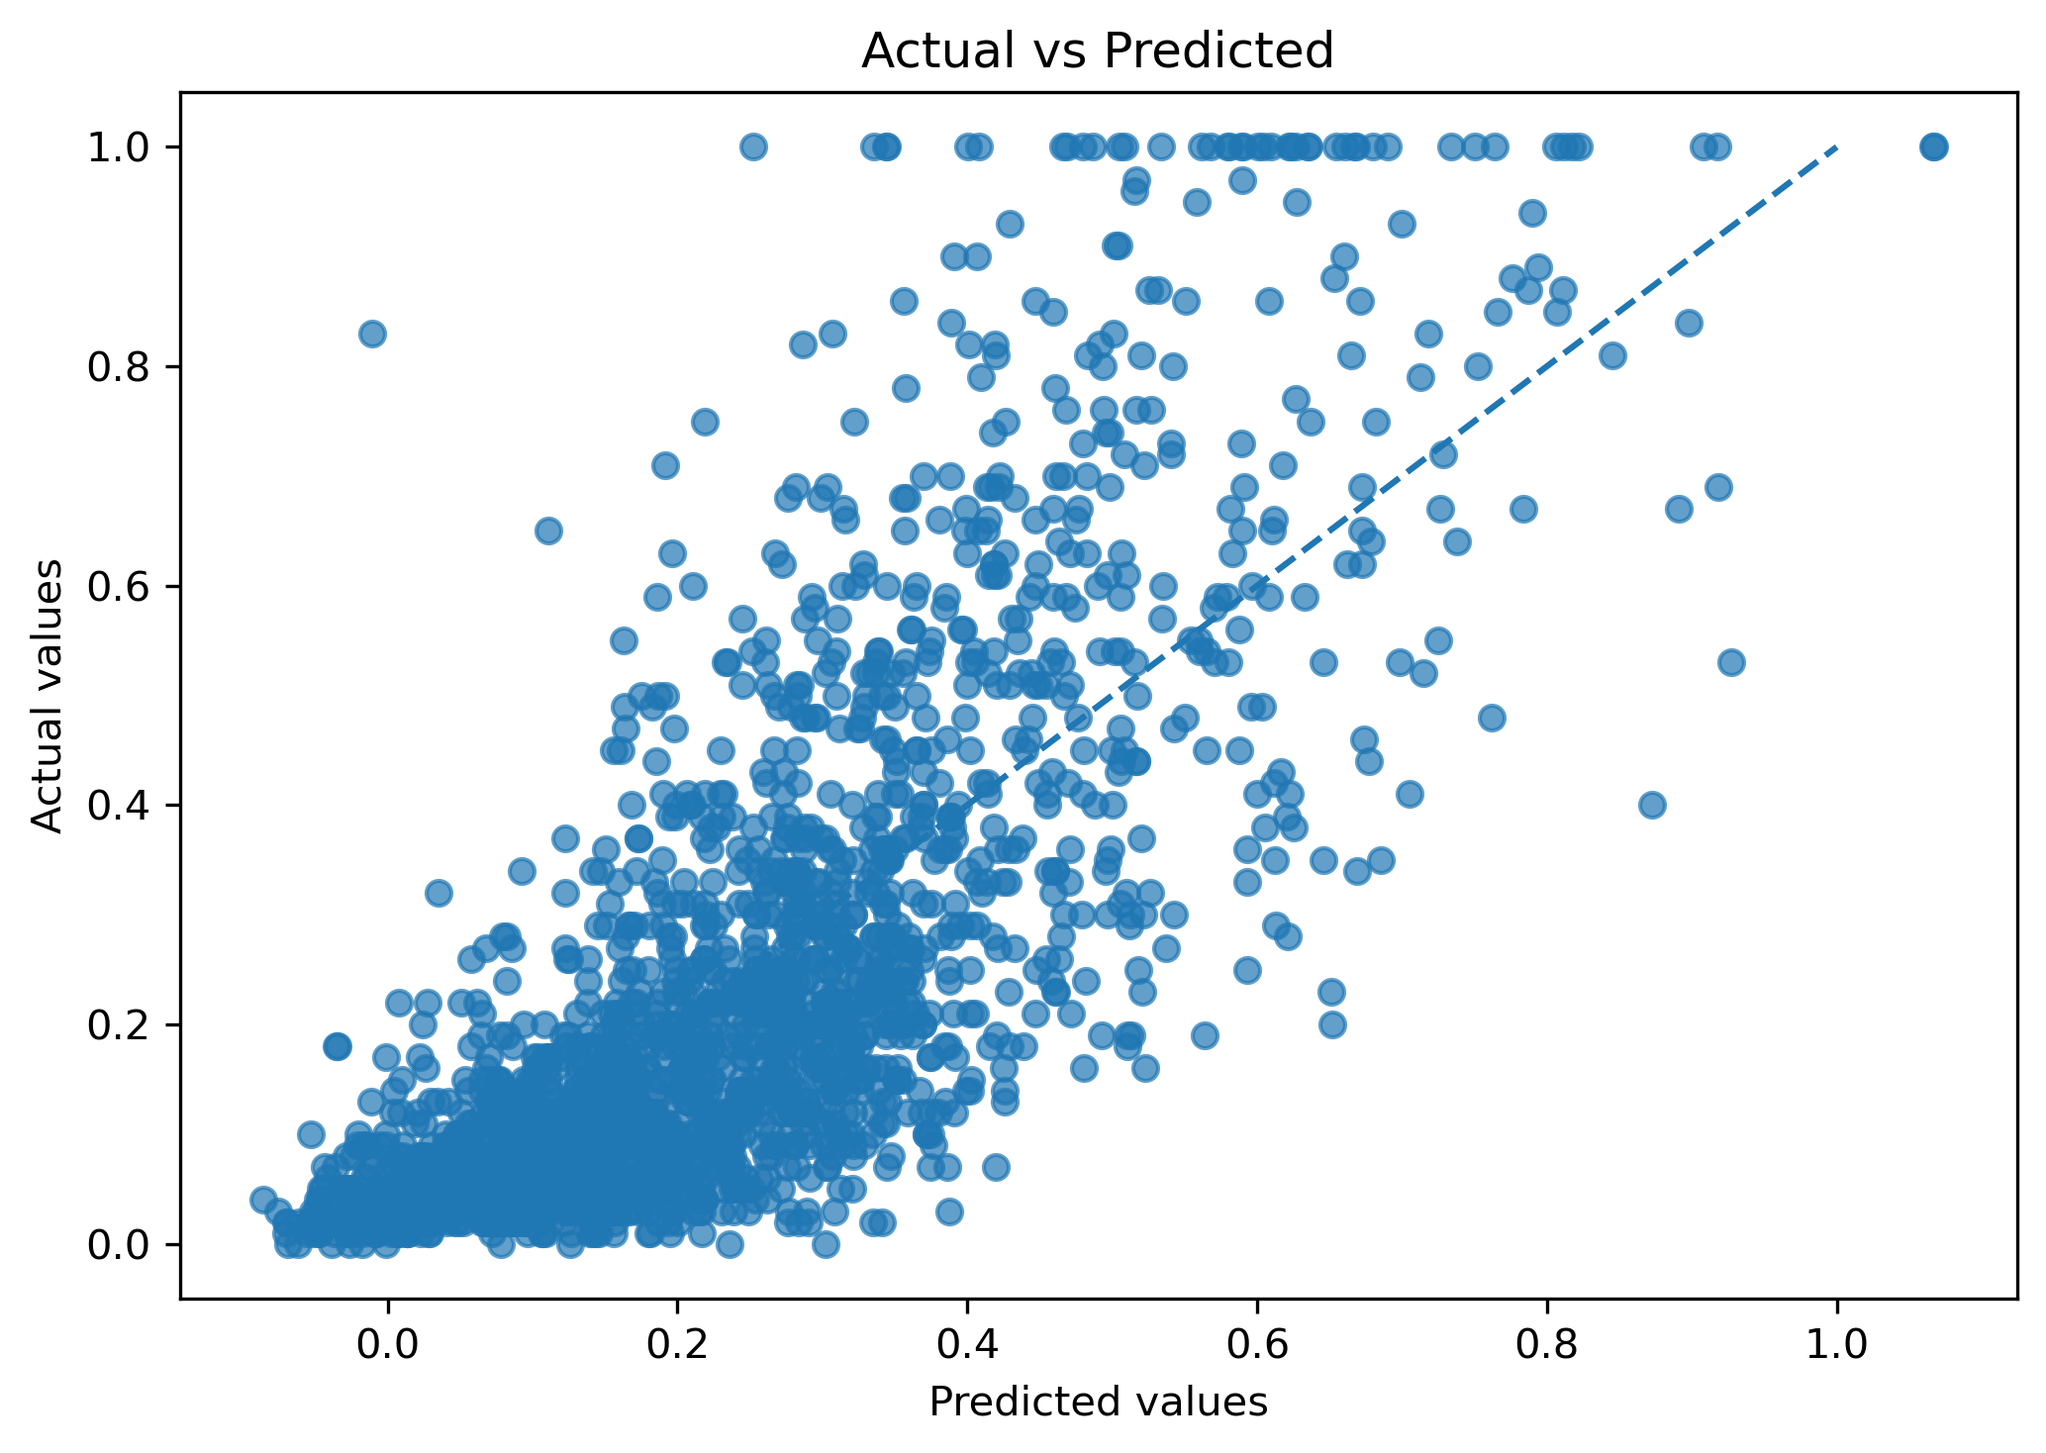
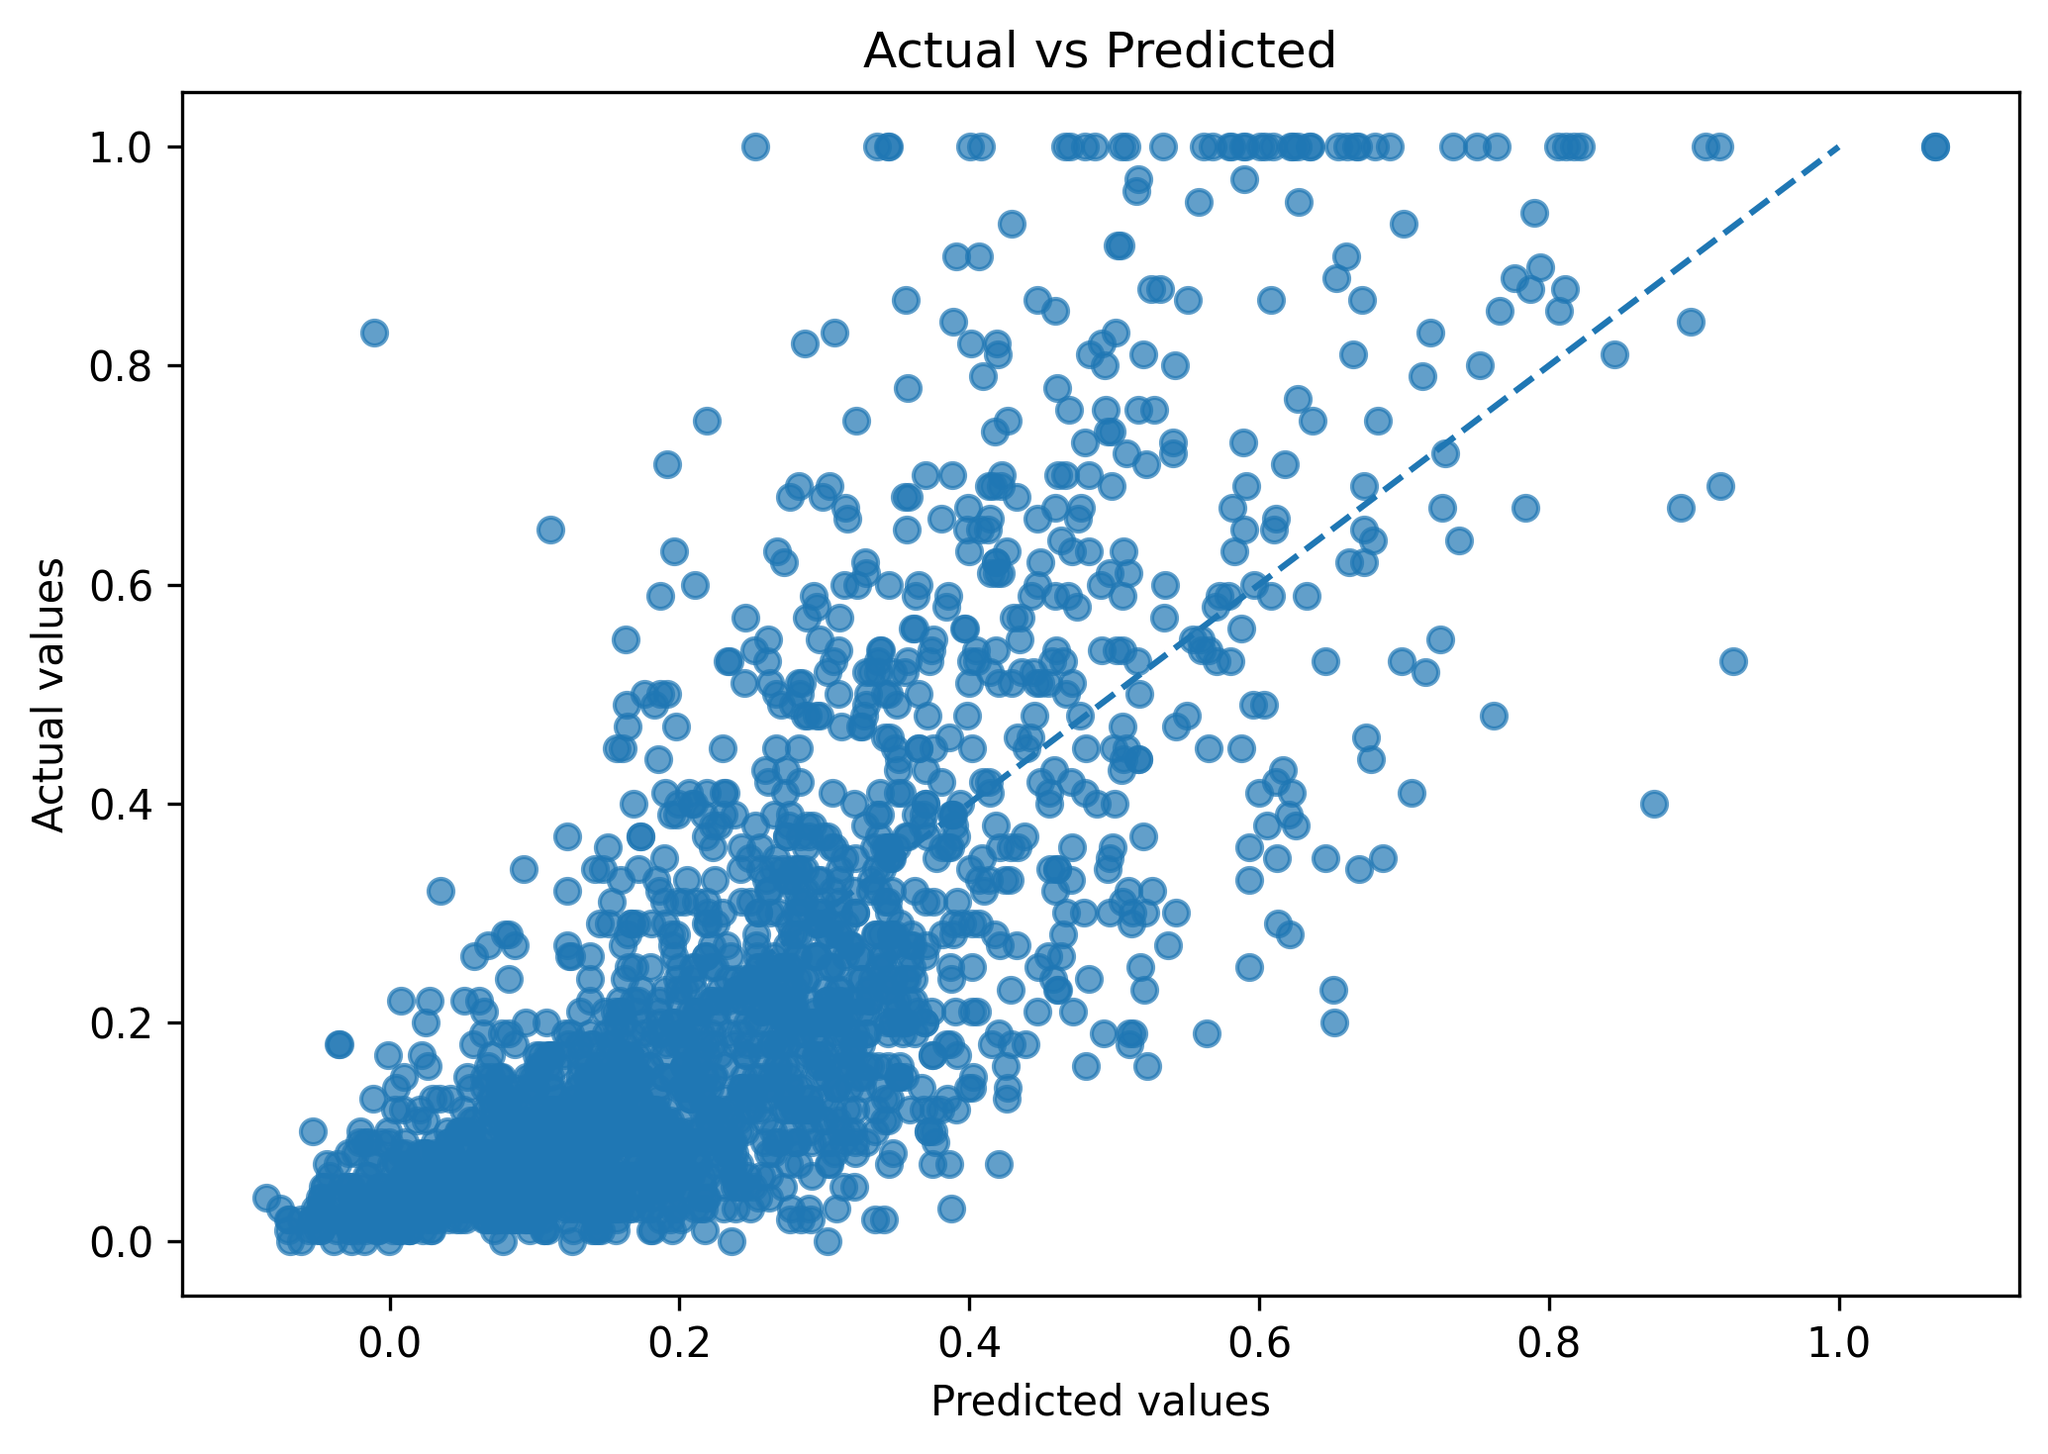
Section B revisions: address sign reversal, add F-test, comment on diagnostics, translate units
Implements the seven outstanding review items for Section B:
- Restructure report/02_section_B.md with Task 3 and Task 4 headings;
  delete the duplicate at outputs/tables/section_b_task3_interpretation.md.
- Explain the PctPopUnderPov sign reversal: link the +0.522 univariate
  correlation to the -0.092 partial coefficient and attribute the flip to
  multicollinearity within the disadvantage block.
- Add a third joint F-test on {PctNotHSGrad, PctUnemployed}: F = 1.04,
  p = 0.355, df = (2, 1986). Fails to reject H0, so the data is consistent
  with dropping both in Task 5 model selection.
- Acknowledge out-of-range fitted values (107 below 0; 8 above 1) as a
  known OLS limitation on a [0, 1]-bounded target; defer remedies to
  Section C.
- Comment on the visible heteroscedasticity in residuals_vs_fitted.png
  and flag that all SEs/p-values/CIs are based on the non-robust
  covariance estimator; HC SEs to be revisited in Section C.
- Comment on residual non-normality (Jarque-Bera, Q-Q plot) and lean on
  the CLT given N = 1994 to defend the inference.
- Translate "one-unit increase in normalized X" into concrete language:
  movement from the dataset minimum to the dataset maximum across the
  full empirical range.

Outputs (joint_f_tests.csv, task4_inference_summary.txt) regenerated;
plots rerendered as a side effect of re-running the pipeline.

diff --git a/Section_B_Estimation_and_Inference/scripts/04_inference.py b/Section_B_Estimation_and_Inference/scripts/04_inference.py
@@ -260,6 +260,15 @@ def build_joint_f_tests_table(model) -> pd.DataFrame:
             "PctVacantBoarded = 0, PopDens = 0, population = 0",
             "H0: the housing/urban-scale coefficients are jointly equal to zero."
         ),
+        # Joint test on the two individually non-significant predictors. This is
+        # the test that informs Task 5 model selection: if we cannot reject H0,
+        # the data is consistent with dropping both PctNotHSGrad and
+        # PctUnemployed from the specification.
+        (
+            "non_significant_pair",
+            "PctNotHSGrad = 0, PctUnemployed = 0",
+            "H0: the two individually non-significant predictors are jointly zero."
+        ),
     ]
 
     rows = [

diff --git a/Section_B_Estimation_and_Inference/report/02_section_B.md b/Section_B_Estimation_and_Inference/report/02_section_B.md
@@ -1,35 +1,191 @@
-# Section B — Task 3: Plain-English Interpretation of the OLS Results
+# Section B — Estimation and Inference (Tasks 3 and 4)
 
-This section interprets the baseline OLS regression for `ViolentCrimesPerPop` using the shared dataset `data/communities_baseline_model.csv`. Because the variables in this project are normalized to the `[0, 1]` scale, each coefficient should be interpreted as the change in predicted `ViolentCrimesPerPop` associated with a one-unit increase in the normalized predictor, holding all other variables constant.
+This section reports the OLS estimation of the baseline model defined in
+Section A and the associated hypothesis tests and confidence intervals.
+The input is the shared baseline dataset
+`data/communities_baseline_model.csv` (1,994 communities, 7 predictors +
+target).
 
-## Coefficient interpretations
+A note on units used throughout. The UCI dataset is normalized so each
+predictor lies in `[0, 1]`, and every predictor has at least one
+community at 0.00 and at least one at 1.00 in our sample. So a
+"one-unit increase in a normalized predictor" corresponds to **moving
+from the community with the lowest observed value to the community with
+the highest observed value** in the dataset. This is a very large
+movement — the *full empirical range* — so coefficients in the table
+below are large changes in predicted `ViolentCrimesPerPop`, not changes
+per percentage point.
 
-- **Intercept (`const = 0.6752`)**  
-  When all predictors are equal to 0, the model predicts `ViolentCrimesPerPop = 0.6752`. This serves mainly as a baseline reference point rather than the most substantively important result.
+## Task 3 — Estimation and Coefficient Interpretation
 
-- **`PctPopUnderPov` (`coef = -0.0918`, `p = 0.0010`)**  
-  Holding the other predictors fixed, a one-unit increase in the normalized poverty measure is associated with a **0.0918 decrease** in predicted violent crime. This coefficient is statistically significant at the 5% level. However, this negative sign should be interpreted cautiously because the disadvantage-related variables are highly correlated, so multicollinearity may be affecting the sign and size of this estimate.
+We fit the baseline OLS model with an intercept using `statsmodels`.
+The results are saved to
+`outputs/tables/coefficients.csv`,
+`outputs/tables/model_fit_summary.csv`, and
+`outputs/tables/ols_summary.txt`. Overall fit: **R² = 0.587**,
+**Adj R² = 0.585**, **F(7, 1986) = 402.6**, **N = 1,994**.
 
-- **`PctNotHSGrad` (`coef = 0.0041`, `p = 0.8789`)**  
-  Holding the other predictors fixed, a one-unit increase in the normalized share of people without a high-school diploma is associated with only a **0.0041 increase** in predicted violent crime. This effect is very small and not statistically significant, so the model does not provide evidence of an independent effect for this variable once the other regressors are included.
+### Coefficient interpretations
 
-- **`PctUnemployed` (`coef = 0.0383`, `p = 0.2168`)**  
-  Holding the other predictors fixed, a one-unit increase in the normalized unemployment measure is associated with a **0.0383 increase** in predicted violent crime. The coefficient is positive, but it is not statistically significant at the 5% level, so it should not be treated as strong evidence of an independent relationship in this model.
+- **Intercept (`const = 0.6752`).**
+  Mathematically, this is the predicted `ViolentCrimesPerPop` when every
+  predictor equals 0. In this data that corresponds to a community at
+  the dataset minimum on *all seven* predictors simultaneously —
+  including `PctKids2Par = 0` (no kids in two-parent households), which
+  is an unrealistic combination. The intercept is therefore not a
+  meaningful "baseline community"; it is a regression anchor and should
+  not be over-interpreted.
 
-- **`PctKids2Par` (`coef = -0.7674`, `p < 0.001`)**  
-  Holding the other predictors fixed, a one-unit increase in the normalized share of kids living in two-parent households is associated with a **0.7674 decrease** in predicted violent crime. This is the largest coefficient in absolute value and is highly statistically significant, suggesting a strong negative association with violent crime in the fitted model.
+- **`PctPopUnderPov` (`coef = -0.0918`, `p = 0.0010`).**
+  In the univariate analysis from Section A, `PctPopUnderPov` had a
+  positive correlation with violent crime (+0.522), suggesting more
+  poverty is associated with more crime — the expected direction.
+  However, in the multivariate model the partial coefficient is **−0.092**
+  (statistically significant at the 1% level), indicating the opposite
+  direction once other variables are controlled for. This is a textbook
+  multicollinearity symptom. Within the disadvantage block
+  (`PctPopUnderPov`, `PctNotHSGrad`, `PctUnemployed`, `PctKids2Par`),
+  the four variables are highly correlated (|r| between 0.67 and 0.78).
+  Most of the shared "disadvantage" signal is absorbed by `PctKids2Par`,
+  which has a strong negative coefficient (−0.767) with a tight
+  confidence interval. `PctPopUnderPov` ends up estimating a residual
+  effect after `PctKids2Par` has soaked up the main pattern, which
+  produces an unstable and counter-intuitive sign. The Section A
+  Limitations section flagged this risk explicitly, and Task 6 VIF
+  analysis will quantify it formally.
 
-- **`PctVacantBoarded` (`coef = 0.0898`, `p < 0.001`)**  
-  Holding the other predictors fixed, a one-unit increase in the normalized share of vacant boarded housing is associated with a **0.0898 increase** in predicted violent crime. This coefficient is statistically significant, indicating a meaningful positive relationship.
+- **`PctNotHSGrad` (`coef = 0.0041`, `p = 0.8789`).**
+  Because `PctNotHSGrad` is normalized to `[0, 1]` and both endpoints
+  are observed, the coefficient measures the predicted change in
+  `ViolentCrimesPerPop` from the community with the lowest share of
+  non-graduates to the community with the highest. The estimated
+  effect is **+0.0041 across that full range** — essentially zero —
+  and is not statistically significant (p = 0.88). The data does not
+  support an independent effect of `PctNotHSGrad` once the other
+  regressors are included.
 
-- **`PopDens` (`coef = 0.0744`, `p < 0.001`)**  
-  Holding the other predictors fixed, a one-unit increase in normalized population density is associated with a **0.0744 increase** in predicted violent crime. This coefficient is statistically significant, showing a positive association between density and violent crime in the model.
+- **`PctUnemployed` (`coef = 0.0383`, `p = 0.2168`).**
+  Because `PctUnemployed` is normalized to `[0, 1]`, the coefficient
+  measures the change in predicted `ViolentCrimesPerPop` from the
+  community with the lowest unemployment to the highest. The estimate
+  is **+0.0383 across that full range** with p = 0.22, so we cannot
+  reject the null hypothesis that this variable's partial effect is
+  zero in the presence of the other predictors.
 
-- **`population` (`coef = 0.2724`, `p < 0.001`)**  
-  Holding the other predictors fixed, a one-unit increase in normalized population size is associated with a **0.2724 increase** in predicted violent crime. This is a large, positive, and statistically significant coefficient, suggesting that larger communities tend to have higher predicted violent crime, conditional on the other variables in the model.
+- **`PctKids2Par` (`coef = -0.7674`, `p < 0.001`).**
+  Because `PctKids2Par` is normalized to `[0, 1]`, a one-unit increase
+  represents moving from the community with the fewest two-parent
+  households in the dataset to the community with the most. So the
+  coefficient of −0.767 means that across that full range, predicted
+  `ViolentCrimesPerPop` falls by **about 0.77 — a very large effect**,
+  the largest in absolute value in the model and highly statistically
+  significant. The 95% CI [−0.824, −0.710] is tight, signalling a
+  precisely estimated negative association.
 
-## Overall interpretation
+- **`PctVacantBoarded` (`coef = 0.0898`, `p < 0.001`).**
+  Because `PctVacantBoarded` is normalized to `[0, 1]`, the coefficient
+  measures the change in predicted `ViolentCrimesPerPop` from the
+  community with the lowest share of vacant boarded housing to the
+  highest. The estimate is **+0.090 across that full range**,
+  statistically significant, indicating a positive association with
+  housing disorder once other predictors are held fixed.
 
-The OLS results show that `PctKids2Par`, `PctVacantBoarded`, `PopDens`, and `population` are statistically significant predictors of violent crime in the baseline model. `PctNotHSGrad` and `PctUnemployed` are not statistically significant. `PctPopUnderPov` is statistically significant, but its negative sign should be interpreted carefully because the disadvantage-related regressors are highly correlated, which may create multicollinearity and unstable coefficient signs.
+- **`PopDens` (`coef = 0.0744`, `p < 0.001`).**
+  Because `PopDens` is normalized to `[0, 1]`, the coefficient is the
+  predicted change in `ViolentCrimesPerPop` from the community with
+  the lowest population density to the highest. The estimate is
+  **+0.074 across that full range**, statistically significant,
+  showing a positive association between density and violent crime
+  in the model.
 
-Overall, the model explains about **58.7%** of the variation in `ViolentCrimesPerPop` (`R^2 = 0.5866`), which suggests a reasonably strong fit for a baseline econometric model.
+- **`population` (`coef = 0.2724`, `p < 0.001`).**
+  Because `population` is normalized to `[0, 1]`, the coefficient is
+  the predicted change in `ViolentCrimesPerPop` from the smallest
+  community in the dataset to the largest. The estimate is **+0.272
+  across that full range**, large and statistically significant,
+  suggesting that larger communities have higher predicted violent
+  crime conditional on the other variables in the model.
+
+### Diagnostic note on out-of-range predictions
+
+OLS produces unbounded predictions, but the target `ViolentCrimesPerPop`
+is bounded in `[0, 1]`. Inspecting the fitted values, **107 of 1,994
+communities (5.4%) receive predictions below 0**, and a small number
+(8) receive predictions above 1. This is a known limitation of using
+OLS on a bounded outcome. We retain OLS here for inferential
+transparency, and Section C will explore remedies (target transformation
+or alternative model forms).
+
+## Task 4 — Hypothesis Testing and Confidence Intervals
+
+This task uses the t-statistics, p-values, and 95% confidence intervals
+already produced in Task 3 (see `outputs/tables/coefficients.csv`),
+plus joint F-tests run in `04_inference.py`. The standard errors come
+from the default OLS covariance estimator
+(`Covariance Type: nonrobust` in the OLS summary), which assumes
+homoscedasticity — see the diagnostic caveats below.
+
+### Diagnostic caveats on the inference
+
+The residuals-vs-fitted plot (`outputs/plots/residuals_vs_fitted.png`)
+shows a clear cone shape — the residual variance increases with the
+fitted value. This is visible heteroscedasticity. All standard errors,
+t-statistics, p-values, and confidence intervals reported in this
+section are based on the default non-robust covariance estimator
+(`Covariance Type: nonrobust` in our OLS summary), which assumes
+homoscedasticity. Section C will revisit this with
+heteroscedasticity-consistent (HC) standard errors and may revise the
+inference. For now, the inferential conclusions should be read as
+conditional on this assumption.
+
+The Q-Q plot (`outputs/plots/qq_plot_residuals.png`) and the
+Jarque-Bera test (p < 1e-100 in the OLS summary) both indicate that
+residuals are non-normal — there is meaningful skewness and excess
+kurtosis. With N = 1994, the Central Limit Theorem makes the t-tests
+and F-tests approximately valid even under non-normality, so the
+inference is not invalidated. However, this caveat should be noted,
+and Section C will examine whether a transformation of the target
+reduces the departure from normality.
+
+### Individual t-tests
+
+Per-coefficient decisions at the 5% level are saved to
+`outputs/tables/t_test_decisions.csv`. Summary:
+
+- **Reject H₀** (significant at 5%): `PctPopUnderPov` (negative — see
+  the multicollinearity discussion above), `PctKids2Par`,
+  `PctVacantBoarded`, `PopDens`, `population`, and the intercept.
+- **Fail to reject H₀**: `PctNotHSGrad` (p = 0.879) and
+  `PctUnemployed` (p = 0.217).
+
+### 95% Confidence intervals
+
+CIs are constructed using the t-distribution with df = 1986 (saved per
+coefficient in `outputs/tables/coefficients.csv` and interpreted
+plain-English in `outputs/tables/confidence_interval_interpretations.csv`).
+Two observations on width:
+
+- `PctKids2Par`'s CI is **[−0.824, −0.710]** — extremely tight,
+  signalling a precisely estimated effect.
+- `PctNotHSGrad`'s CI is **[−0.049, +0.057]** — almost symmetric
+  around zero. The data essentially rules out a large effect in
+  either direction, rather than confirming a small one.
+
+### Joint F-tests
+
+We run three joint F-tests (full results in
+`outputs/tables/joint_f_tests.csv`):
+
+| Test | Restriction | F | df | p | Decision |
+|---|---|---|---|---|---|
+| Disadvantage block | `PctPopUnderPov = PctNotHSGrad = PctUnemployed = PctKids2Par = 0` | 326.63 | (4, 1986) | < 1e-200 | Reject H₀ |
+| Non-disadvantage controls | `PctVacantBoarded = PopDens = population = 0` | 56.95 | (3, 1986) | < 1e-30 | Reject H₀ |
+| Non-significant pair | `PctNotHSGrad = PctUnemployed = 0` | 1.04 | (2, 1986) | 0.355 | Fail to reject H₀ |
+
+In addition to the block-level F-tests, we tested whether the two
+individually non-significant predictors (`PctNotHSGrad`,
+`PctUnemployed`) can be jointly excluded from the model. The result
+is F(2, 1986) = 1.04, p = 0.355. We fail to reject the null hypothesis
+that both coefficients are zero. This is informative for Task 5 model
+selection: the data is consistent with a more parsimonious specification
+that drops these two variables.
